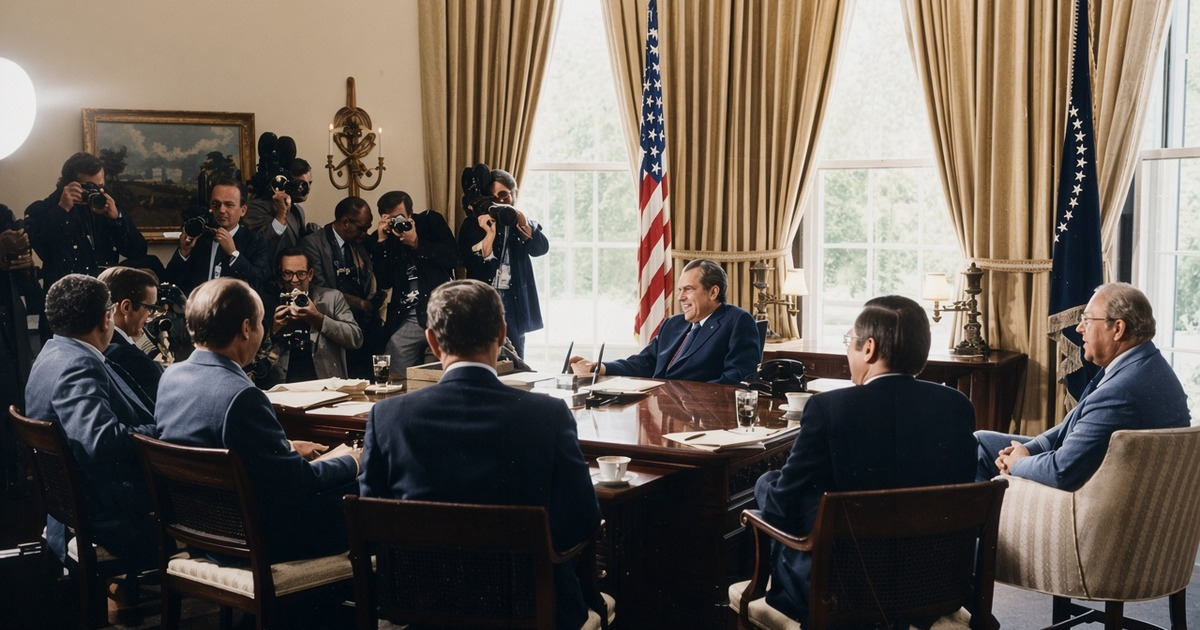
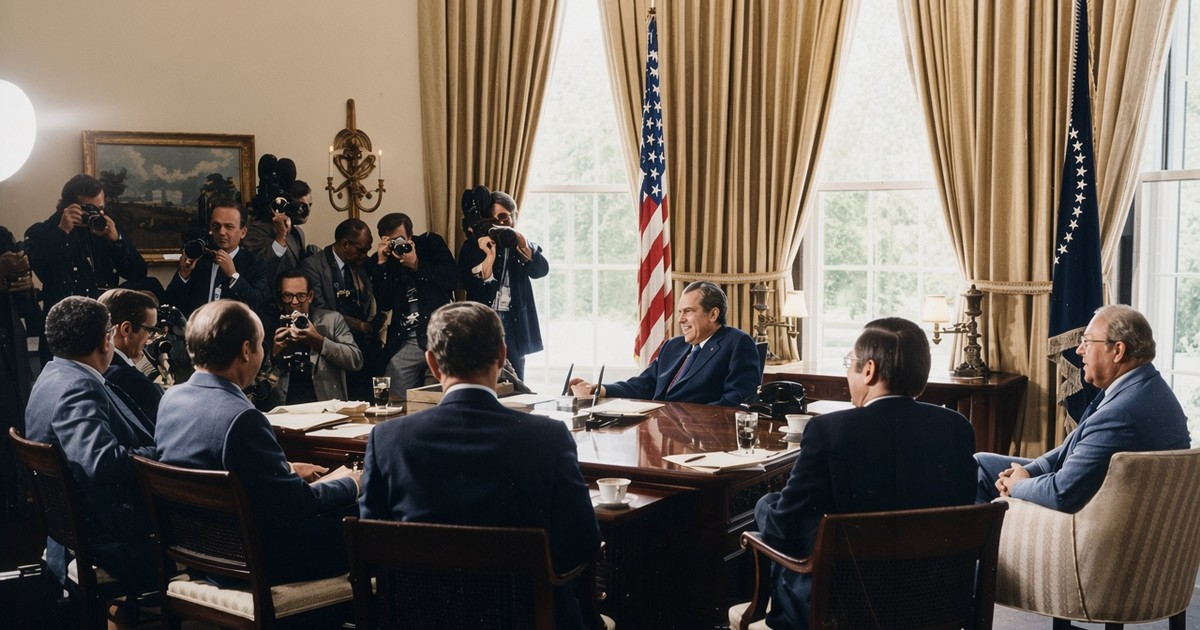
Split Nixon OG crop from colorized titlebild (hero ≠ OG) (#138)
Keep the colorized on-page hero; ship a separate 1200×630 OG crop of
the same motif. Drop byte-identity checks so crops may differ per the
locked hero≠OG preference.

diff --git a/src/lib/content/article-media.test.ts b/src/lib/content/article-media.test.ts
@@ -1,6 +1,6 @@
 import { describe, it } from "node:test";
 import assert from "node:assert/strict";
-import { existsSync, readFileSync, statSync } from "node:fs";
+import { existsSync, statSync } from "node:fs";
 import { join } from "node:path";
 import { execFileSync } from "node:child_process";
 import {
@@ -66,7 +66,9 @@ describe("article hero = OG pattern", () => {
     }
   });
 
-  it("ships true 1200×630 JPEGs for hero titlebild and OG (Querformat sync)", () => {
+  it("ships landscape titlebild + 1200×630 OG (same motif OK; crops may differ)", () => {
+    // On-page hero and OG are separate assets (locked preference). Sibling may
+    // relax on-page dims further; keep both files present and OG at social size.
     for (const hero of ARTICLE_HEROES) {
       assert.equal(hero.ogSrc, ogImagePathForRoute(hero.path), hero.path);
       const srcFile = join(root, "public", hero.src.replace(/^\//, ""));
@@ -74,28 +76,41 @@ describe("article hero = OG pattern", () => {
       for (const file of [srcFile, ogFile]) {
         const size = statSync(file).size;
         assert.ok(size > 20_000 && size <= 600 * 1024, `${file} size ${size}`);
-        const probe = execFileSync(
-          "ffprobe",
-          [
-            "-v",
-            "error",
-            "-select_streams",
-            "v:0",
-            "-show_entries",
-            "stream=width,height",
-            "-of",
-            "csv=p=0",
-            file,
-          ],
-          { encoding: "utf8" },
-        ).trim();
-        assert.equal(probe, "1200,630", `${file} dims ${probe}`);
       }
-      assert.deepEqual(
-        readFileSync(srcFile),
-        readFileSync(ogFile),
-        `${hero.path} titlebild/OG bytes differ`,
-      );
+      const ogProbe = execFileSync(
+        "ffprobe",
+        [
+          "-v",
+          "error",
+          "-select_streams",
+          "v:0",
+          "-show_entries",
+          "stream=width,height",
+          "-of",
+          "csv=p=0",
+          ogFile,
+        ],
+        { encoding: "utf8" },
+      ).trim();
+      assert.equal(ogProbe, "1200,630", `${ogFile} dims ${ogProbe}`);
+      const srcProbe = execFileSync(
+        "ffprobe",
+        [
+          "-v",
+          "error",
+          "-select_streams",
+          "v:0",
+          "-show_entries",
+          "stream=width,height",
+          "-of",
+          "csv=p=0",
+          srcFile,
+        ],
+        { encoding: "utf8" },
+      ).trim();
+      const [sw, sh] = srcProbe.split(",").map(Number);
+      assert.ok(sw >= 800 && sh >= 400, `${srcFile} dims ${srcProbe}`);
+      assert.ok(sw / sh >= 1.4, `${srcFile} should be landscape (${srcProbe})`);
     }
   });
 

diff --git a/src/lib/content/article-media.ts b/src/lib/content/article-media.ts
@@ -1,5 +1,5 @@
 /**
- * Article titlebild (= on-page hero file) that also doubles as the Open Graph / X card.
+ * Article titlebild (on-page hero) paired with a separate Open Graph / X card.
  *
  * On-page layout (via `ArticleLead`): **title (+ teaser) first, then landscape
  * media under** — X Articles reading order. The whole lead (title, teaser,
@@ -7,19 +7,21 @@
  * not outrun the image or body. Do not put the image above the title
  * (feed-card style) and never ship a tall full-bleed of the whole illustration.
  *
- * Display vs share: files stay **1200×630** for OG/X. On-page, `ArticleHeroImage`
- * shows a **5:2** band (aspect on the clipped wrapper; img `object-cover`
- * fills the frame edge-to-edge) — analog to X Article title-image, shorter
- * than native ~1.9:1 OG. No max-height strip crop (#108). No letterbox /
- * pillarbox matte inside the rounded box — subject must fill the 5:2 crop
- * (crop assets; do not pad into a smaller center plate). Do not invent a
- * portrait on-page format this pass.
+ * Display vs share: **on-page hero and OG are separate files** (same motif OK,
+ * different crops OK). OG/X cards are **1200×630**. On-page, `ArticleHeroImage`
+ * shows a **~5:2** band by default (aspect on the clipped wrapper; img
+ * `object-cover` fills the frame edge-to-edge) — shorter than native ~1.9:1 OG.
+ * No max-height strip crop (#108). No letterbox / pillarbox matte inside the
+ * rounded box — subject must fill the crop (do not pad into a smaller center
+ * plate). Do not invent a portrait on-page format this pass.
  *
  * Convention for later articles:
  * 1. Keep the master illustration elsewhere if needed; write the **landscape**
- *    titlebild JPEG under `public/images/<pillar>/...` at OG aspect (1200×630).
- * 2. Write the **same** 1200×630 crop to the Phase-1 card path under `public/og/cards/`
- *    (same key as `ogImagePathForRoute(path)` — see `phase1-sitemap-paths.mjs`).
+ *    titlebild JPEG under `public/images/<pillar>/...` (often ~1200×630; 5:2
+ *    native also fine).
+ * 2. Write a **separate** 1200×630 crop to the Phase-1 card path under
+ *    `public/og/cards/` (same key as `ogImagePathForRoute(path)` — see
+ *    `phase1-sitemap-paths.mjs`). Same motif; crop may differ from on-page.
  * 3. Register one entry here with matching `src` + `ogSrc`, alt, caption, credit.
  * 4. Render with `ArticleLead` + `ArticleHeroImage` (5:2 inset band at prose width).
  * 5. `npm run og:cards` skips paths listed here so branded text cards do not overwrite.
